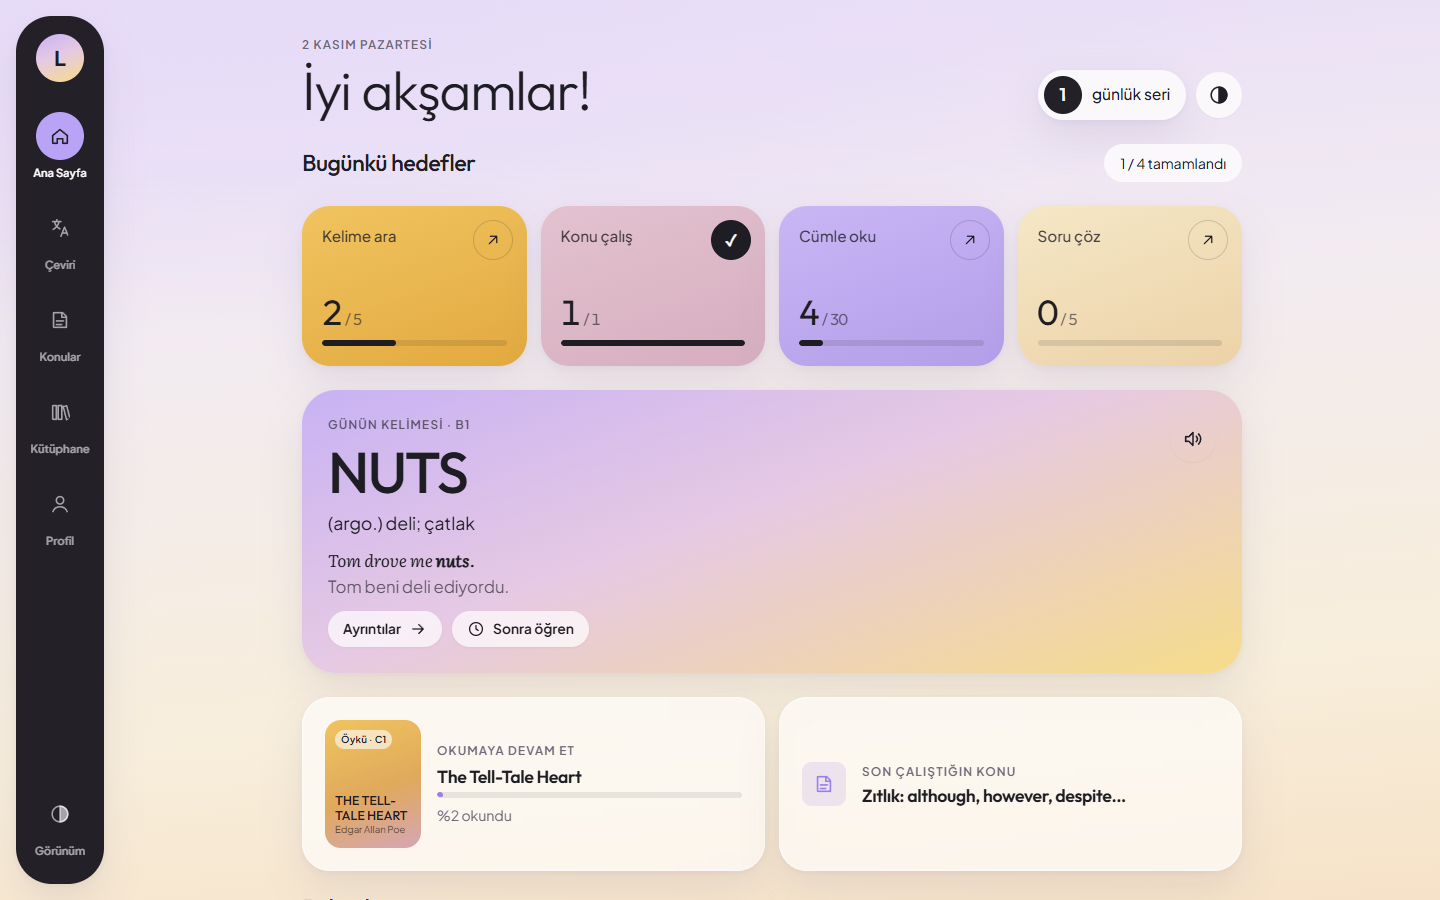
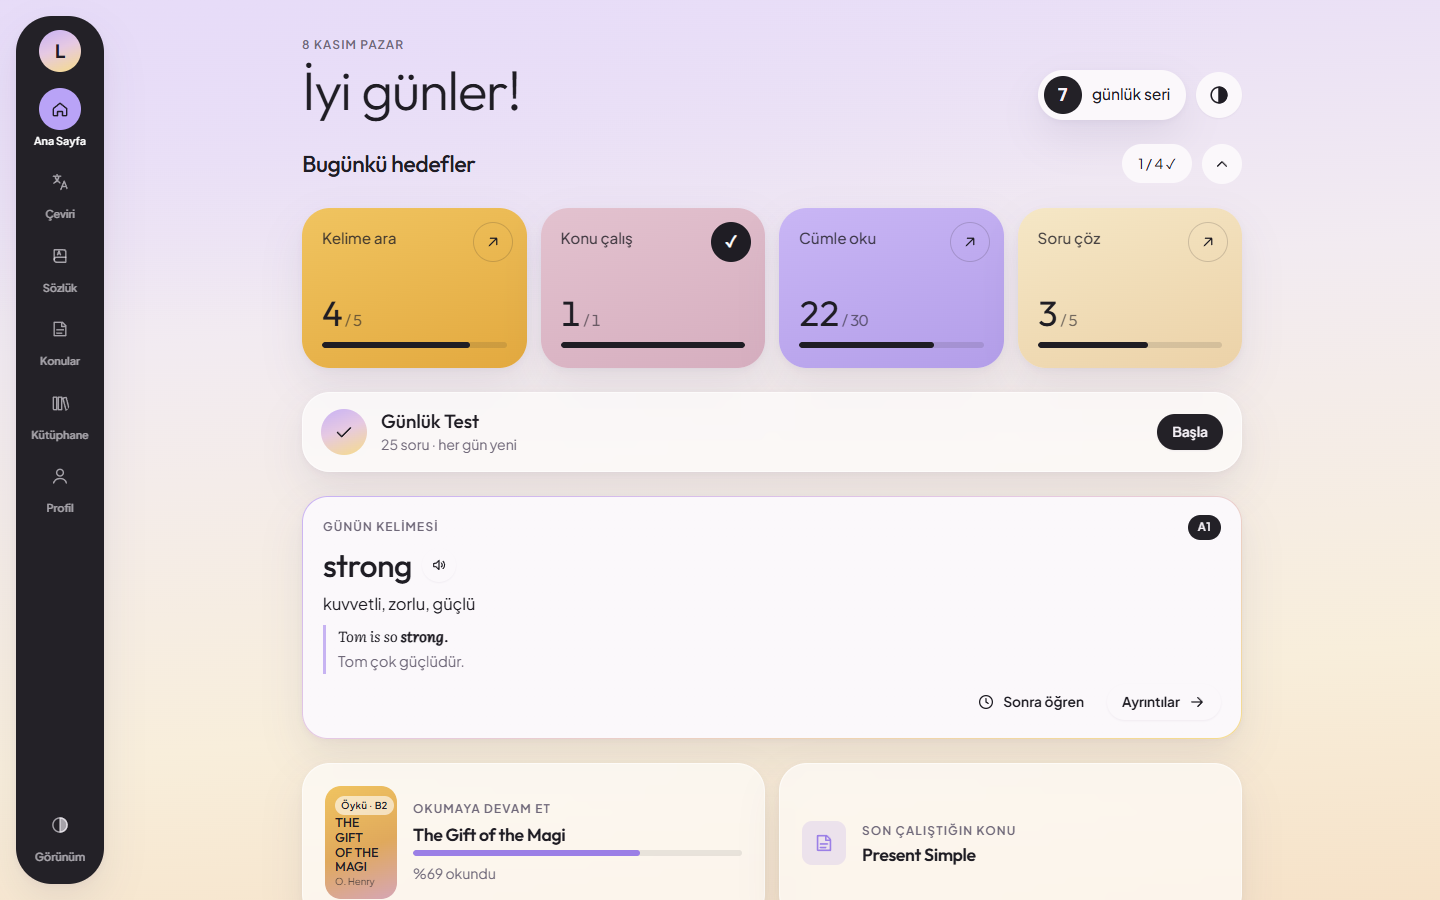
README: ekran görüntüleri yenilendi (cümle çevirisi, sözlük, günlük test, profil, koyu tema)

diff --git a/README.md b/README.md
@@ -30,18 +30,23 @@ Uygulamadaki her cevap kendi içindeki veriden gelir. Bir kelime aradığınızd
 <table>
   <tr>
     <td align="center"><img src="docs/screenshots/1-ana-sayfa.png" width="250" alt="Ana sayfa"><br><sub><b>Ana sayfa</b>: günlük hedefler, seri, günün kelimesi</sub></td>
-    <td align="center"><img src="docs/screenshots/2-ceviri.png" width="250" alt="Çeviri"><br><sub><b>Çeviri</b>: anlamlar, seviye, YDS etiketi</sub></td>
-    <td align="center"><img src="docs/screenshots/3-yds-sorusu.png" width="250" alt="YDS tarzı soru"><br><sub><b>YDS tarzı sorular</b>: kelimenin kendi örneklerinden</sub></td>
+    <td align="center"><img src="docs/screenshots/2-kelime-cevirisi.png" width="250" alt="Kelime çevirisi"><br><sub><b>Kelime çevirisi</b>: anlamlar, seviye, YDS etiketi</sub></td>
+    <td align="center"><img src="docs/screenshots/3-cumle-cevirisi.png" width="250" alt="Cümle çevirisi"><br><sub><b>Cümle çevirisi</b>: cihazda, internetsiz</sub></td>
   </tr>
   <tr>
-    <td align="center"><img src="docs/screenshots/4-konu.png" width="250" alt="Konu anlatımı"><br><sub><b>Konu anlatımı</b>: yapı, kullanım, 10+ örnek</sub></td>
-    <td align="center"><img src="docs/screenshots/5-kutuphane.png" width="250" alt="Kütüphane"><br><sub><b>Kütüphane</b>: A1'den C1'e 40 eser</sub></td>
-    <td align="center"><img src="docs/screenshots/6-okuyucu-kelime-karti.png" width="250" alt="Okuyucu ve kelime kartı"><br><sub><b>Okuyucu</b>: kelimeye dokun, anlamı yanında açılsın</sub></td>
+    <td align="center"><img src="docs/screenshots/4-sozluk.png" width="250" alt="Sözlük"><br><sub><b>Sözlük</b>: açılır filtrelerle 40 bin kelime</sub></td>
+    <td align="center"><img src="docs/screenshots/5-konu-anlatimi.png" width="250" alt="Konu anlatımı"><br><sub><b>Konu anlatımı</b>: yapı, kullanım, 10+ örnek</sub></td>
+    <td align="center"><img src="docs/screenshots/7-gunluk-test.png" width="250" alt="Günlük test"><br><sub><b>Günlük Test</b>: her gün yeni 25 YDS tarzı soru</sub></td>
   </tr>
   <tr>
-    <td align="center"><img src="docs/screenshots/7-koyu-tema-okuyucu.png" width="250" alt="Koyu tema okuyucu"><br><sub><b>Koyu tema</b>: okuyucu</sub></td>
-    <td align="center"><img src="docs/screenshots/8-koyu-tema-ana-sayfa.png" width="250" alt="Koyu tema ana sayfa"><br><sub><b>Koyu tema</b>: ana sayfa</sub></td>
-    <td align="center"><img src="docs/screenshots/9-sozluk.png" width="250" alt="Sözlük"><br><sub><b>Sözlük</b>: harf, seviye ve türe göre göz at</sub></td>
+    <td align="center"><img src="docs/screenshots/9-kutuphane-raf.png" width="250" alt="Kütüphane"><br><sub><b>Kütüphane</b>: A1'den C1'e 40 eser</sub></td>
+    <td align="center"><img src="docs/screenshots/6-kutuphane-okuyucu.png" width="250" alt="Okuyucu ve kelime kartı"><br><sub><b>Okuyucu</b>: kelimeye dokun, anlamı yanında açılsın</sub></td>
+    <td align="center"><img src="docs/screenshots/8-profil.png" width="250" alt="Profil"><br><sub><b>Profil</b>: seri, istatistikler, son 7 gün</sub></td>
+  </tr>
+  <tr>
+    <td align="center"><img src="docs/screenshots/10-koyu-ana-sayfa.png" width="250" alt="Koyu tema ana sayfa"><br><sub><b>Koyu tema</b>: ana sayfa</sub></td>
+    <td align="center"><img src="docs/screenshots/11-koyu-cumle-cevirisi.png" width="250" alt="Koyu tema cümle çevirisi"><br><sub><b>Koyu tema</b>: cümle çevirisi</sub></td>
+    <td align="center"><img src="docs/screenshots/12-koyu-okuyucu.png" width="250" alt="Koyu tema okuyucu"><br><sub><b>Koyu tema</b>: okuyucu</sub></td>
   </tr>
 </table>
 
